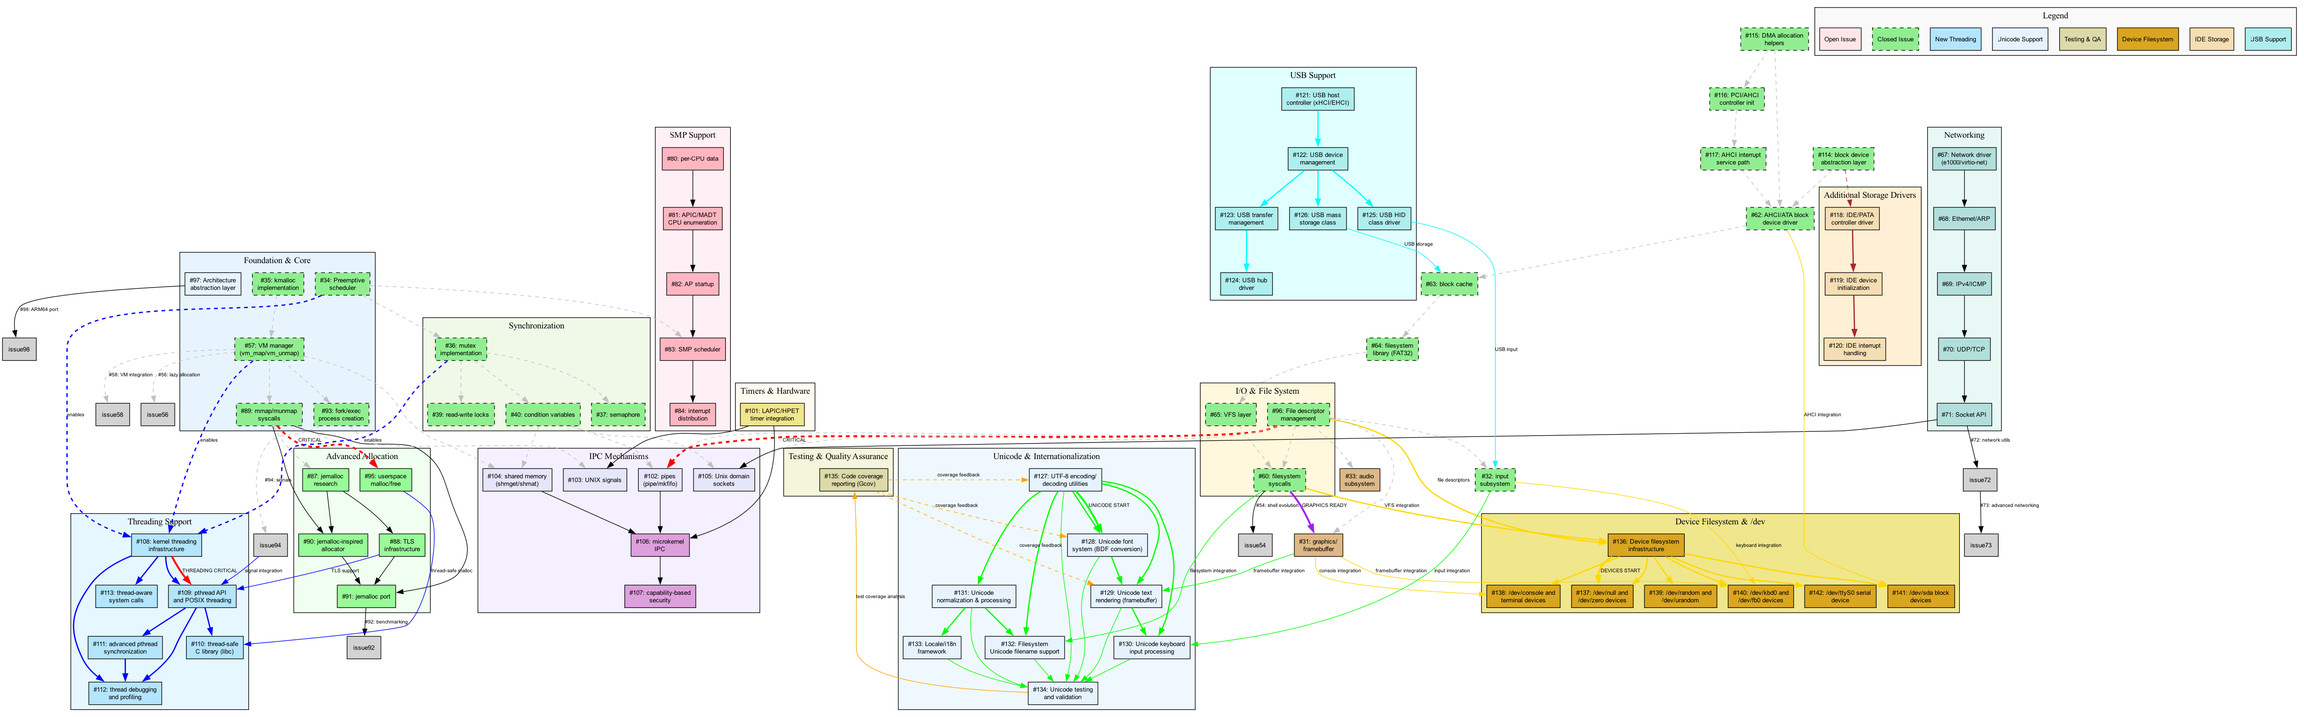
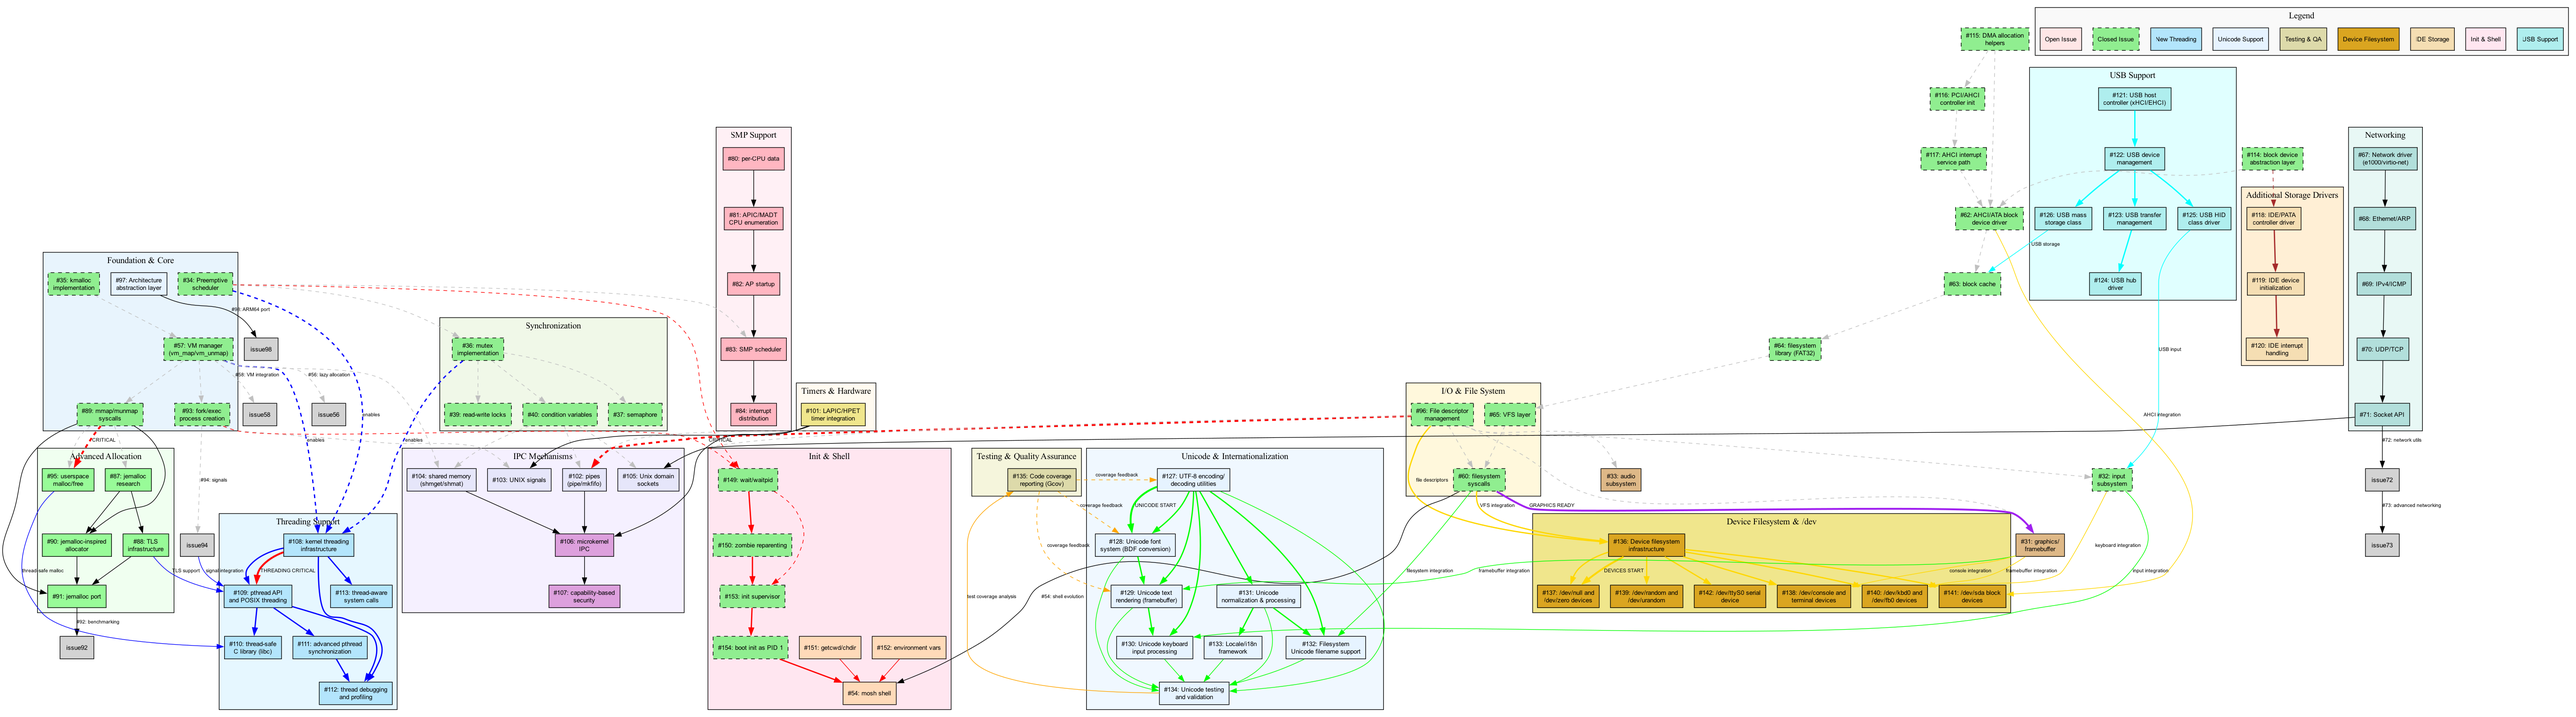
Refresh roadmaps after init integration

diff --git a/road_to_doom.md b/road_to_doom.md
@@ -10,6 +10,7 @@
 - File descriptors, CLOEXEC, anonymous pipes, and libc syscall shims (`read`, `write`, `open`, `close`, `lseek`, `dup`, `fcntl`)
 - PCI/AHCI DMA driver, block cache, GPT scanning, FAT32 filesystem driver, and VFS mount at `/`
 - Embedded user demo exercises pipes, fork, filesystem reads, and priority scheduling with serial diagnostics
+- Minimal `init` supervisor now boots as PID 1, reaping zombies and supervising orphaned children (#153, #154)
 
 **🟡 Focus now shifts to userland runtime and device interfaces.**
 - pthread API, thread-safe libc, and advanced synchronization for multithreaded apps
@@ -89,6 +90,25 @@ Inter-process communication for complex applications:
 - 🔜 **Status**: Planned follow-ups after shared memory
 - **Scope**: Futex-style wakeups, message queues, and cross-process synchronization
 - **Impact**: Efficient event loops, sound mixer coordination, microkernel services
+
+### **Phase 3b: Init & Shell Infrastructure**
+Glue to launch user-facing services and prepare for a shell-driven environment.
+
+#### **Init Supervisor** (Issue #153)
+- ✅ **Status**: COMPLETE – dedicated PID 1 process loops on `waitpid()` and emits supervision logs
+- **Impact**: Central reaper for zombies, foundation for service supervision, and future shell parent
+
+#### **Boot Integration** (Issue #154)
+- ✅ **Status**: COMPLETE – kernel now launches `init` during bootstrap; legacy demos are optional diagnostics
+- **Impact**: Consistent UNIX-style process tree with `init` as the adoption point for orphans
+
+#### **getcwd/chdir Syscalls** (Issue #151)
+- 🟡 **Status**: Ready to implement – VFS already exposes directory metadata
+- **Impact**: Enables shell navigation and path-sensitive tooling
+
+#### **Environment Variables** (Issue #152)
+- 🟡 **Status**: Ready to implement – no outstanding prerequisites
+- **Impact**: Provides PATH/HOME/configuration scaffolding for shell scripts and Doom launchers
 
 ### **Phase 4: File System & Storage** (Complete, write support pending)
 Persistent storage for game assets and save files:
@@ -191,7 +211,8 @@ Development environment for building applications:
 ### **Medium Term (3-9 months)**
 - Deliver shared memory and futex/message IPC primitives (#104-#107)
 - Enable filesystem write support and VFS updates for save games (#61)
-- Expose framebuffer, input, and audio interfaces to userland (#31-#33)
+- Flesh out shell environment and launch tooling once directory/env plumbing lands (#151, #152)
+- Extend input/audio interfaces for gameplay (#32, #33, #143-#144)
 
 ### **Long Term (9+ months)**
 - Package cross-compiler toolchain and userspace SDK (#29)
@@ -201,14 +222,16 @@ Development environment for building applications:
 ## 🚀 **Immediate Next Steps**
 
 **Ready to implement now** (dependencies cleared):
-1. **#109** – pthread API skeleton and thread lifecycle helpers
-2. **#110** – Thread-safe libc (malloc/stdio/errno hardening)
-3. **#113** – Thread-aware syscalls and scheduler inspection hooks
+1. **#151** – `getcwd`/`chdir` syscalls for shell navigation
+2. **#152** – Environment-variable support for PATH/HOME configuration
+3. **#109** – pthread API skeleton and thread lifecycle helpers
+4. **#110** – Thread-safe libc (malloc/stdio/errno hardening)
+5. **#113** – Thread-aware syscalls and scheduler inspection hooks
 
 **High impact for applications**:
-4. **#103** – UNIX signals built atop the timer service
-5. **#104** – Shared memory primitives for high-bandwidth IPC
-6. **#33** – Audio subsystem for playback in userland
+6. **#103** – UNIX signals built atop the timer service
+7. **#104** – Shared memory primitives for high-bandwidth IPC
+8. **#33** – Audio subsystem for playback in userland
 
 ## 🎯 **Success Criteria**
 

diff --git a/road_to_microkernel.md b/road_to_microkernel.md
@@ -12,6 +12,14 @@ meniOS currently follows a monolithic kernel design where:
 - Network stack is kernel-resident
 - All kernel services share the same address space
 
+### Recent Progress
+
+Several groundwork issues aligned with a future microkernel design are already complete:
+- **Process reparenting & waitpid** (#149, #150) ensure zombies are reaped and orphans flow to a supervisor
+- **Dedicated init supervisor** now starts as PID 1 (#153, #154), giving us a natural userspace service manager to grow into
+- **Signal delivery prototype** (#103) and **kill(2)** provide the control path a process manager needs for restarts
+- These pieces mean the kernel can already hand scheduling/teardown duties to a small userspace monitor once IPC and drivers migrate outward
+
 ## Microkernel Conversion Challenges
 
 ### Major Architectural Changes Required
@@ -36,6 +44,12 @@ meniOS currently follows a monolithic kernel design where:
 - Each runs as separate userspace process
 
 ## Technical Implementation Steps
+
+### Prerequisite Foundations (COMPLETE)
+
+- Stand up `init`/PID 1 supervision (DONE – Issues #153/#154)
+- Finalise process lifecycle controls (DONE – Issues #149/#150/#103)
+- Outcome: kernel can safely delegate service ownership to a userspace manager once IPC exists
 
 ### Phase 1: IPC Foundation (3-4 months)
 
@@ -120,6 +134,7 @@ capability_t grant_capability(pid_t process, resource_id_t resource);
 
 **Full conversion: 12-18 months**
 
+- **Already complete**: PID 1 supervision, waitpid/zombie plumbing, and basic signal routing (#149/#150/#153/#154/#103)
 - **3-4 months**: IPC and basic microkernel core
 - **4-6 months**: Driver framework and migration
 - **4-6 months**: Service migration (filesystem, network)
@@ -132,6 +147,7 @@ capability_t grant_capability(pid_t process, resource_id_t resource);
 - Move non-critical drivers first
 - Keep monolithic option available
 - Incremental testing at each step
+- Promote the existing PID 1 init process into the first userspace service manager, then expand its responsibilities as drivers move out
 
 ### 2. Hybrid Phase
 - Run some services in userspace
@@ -170,6 +186,7 @@ struct capability {
 
 ```
 Userspace:
+├── Init / Service Manager (current PID 1)
 ├── File Server
 ├── Network Server
 ├── Device Drivers

diff --git a/road_to_multiuser.md b/road_to_multiuser.md
@@ -11,6 +11,12 @@
 - All processes run with full privileges
 - No resource isolation between users
 
+### Recent Foundations
+- **Process lifecycle plumbing** is in place: `waitpid`/zombie reparenting (#149/#150) mean a login manager can supervise user shells without leaking PIDs
+- **`init` now runs as PID 1** (#153/#154), giving us a natural parent for login/getty daemons and future service managers
+- **Signal delivery primitives** (#103) allow clean termination of user sessions, a prerequisite for secure logouts
+- Upcoming work on `getcwd`/`chdir` (#151) and environment handling (#152) will provide per-user shells with proper HOME/PATH defaults
+
 ## Multi-User System Requirements
 
 ### Phase 1: User and Group Infrastructure
@@ -73,7 +79,7 @@
    - Secure password storage
 
 3. Getty/Terminal management
-   - Spawn login on TTY devices
+   - Spawn login on TTY devices from PID 1 `init`
    - Handle multiple simultaneous logins
    - TTY allocation and management
 
